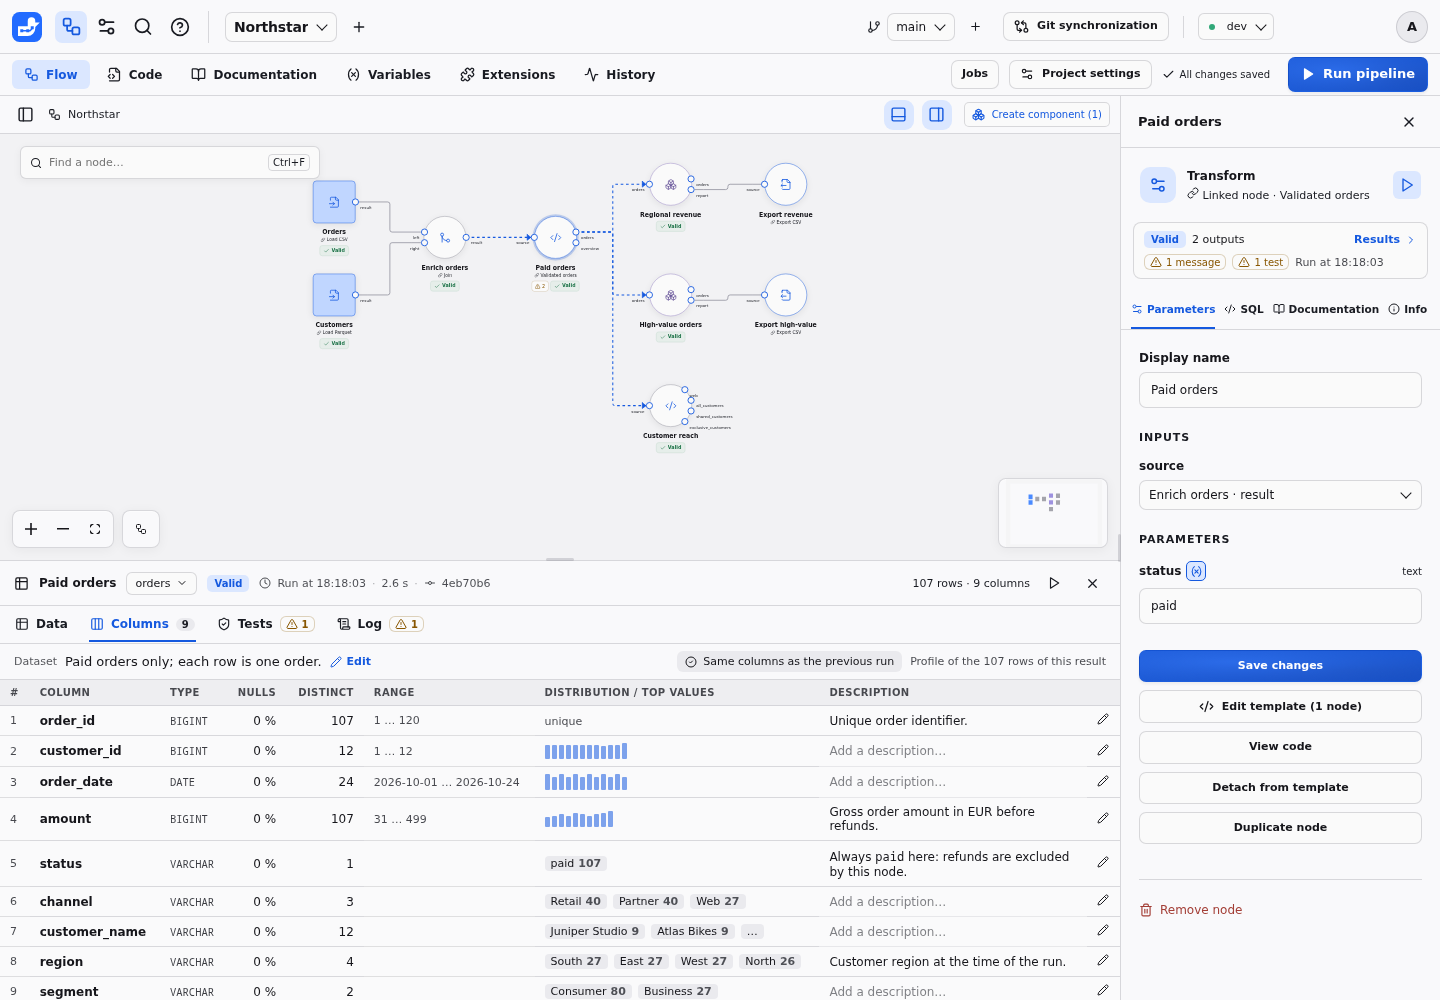
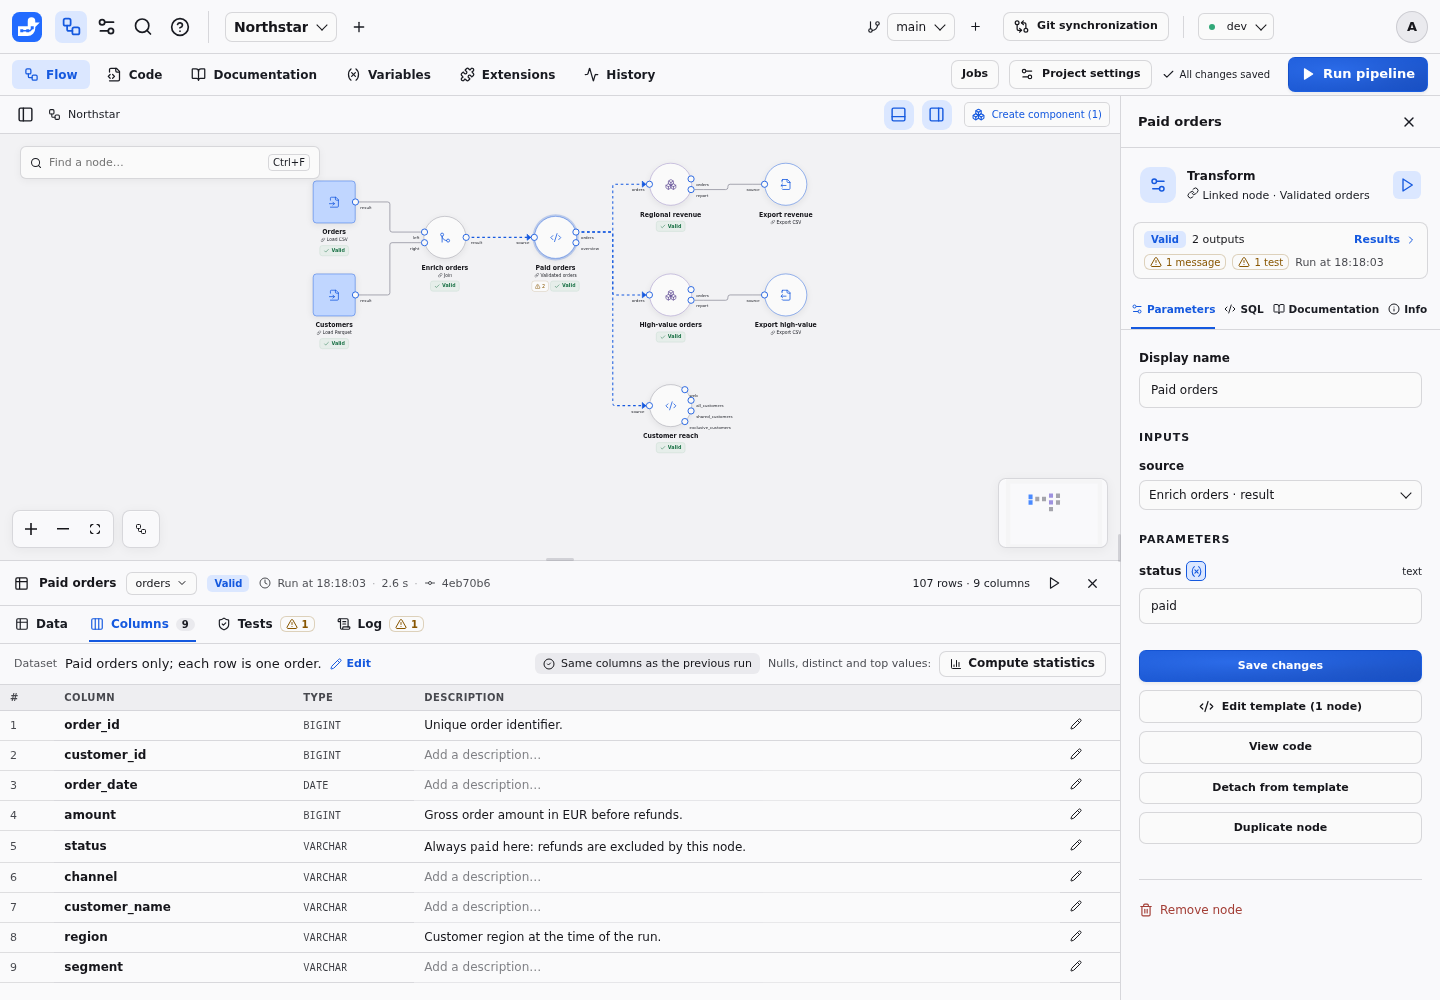
docs(design): record the results panel decisions
Samples act only on the display, views are shared in views.json, and
descriptions are edited from the Columns tab. Column names, types and
descriptions show at once; statistics are computed only with Compute
statistics, since their cost grows with the result and competes with
runs.

Changed region(s): [[0.0, 0.651, 0.7812, 1.0]]

diff --git a/docs/design/NODE_RESULTS.md b/docs/design/NODE_RESULTS.md
@@ -14,7 +14,7 @@ The rule fits in one sentence: *if it changes when you switch environment or run
 The results panel also adds what the current preview lacks:
 
 1. **Custom samples:** first or random rows, a SQL filter, a multi-column sort, and saved views shared with the project.
-2. **Column list:** each column's type, nulls, distinct values, range or top values, and its description.
+2. **Column list:** each column's name, type and description at once and, on request, its nulls, distinct values, range or top values.
 3. **Log:** the run that produced the result, the node's `-- @message` results and the SQL it executed.
 4. **Tests:** each `-- @test` with its recent history and, on demand, the failing rows.
 
@@ -35,11 +35,11 @@ The results panel also adds what the current preview lacks:
 | --- | --- | --- | --- | --- | --- |
 | Rows shown | Results window per tool output, capped in size | Explore tab on a configurable sample (first 10,000 rows by default) | Preview of the first rows | `dbt show` | Retained result of the last run, paged |
 | Choosing the sample | Browse tool, filters in the grid | Sampling settings saved with the dataset: first records, random, stratified… | Filters become applied steps | SQL | First or random rows, SQL filter, sort; personal or saved views |
-| Columns and types | Metadata view: name, type, size, source, description | Schema and column analysis | Column quality, distribution and profile, on the first 1,000 rows unless switched | YAML documentation | Columns tab: type, profile on the whole result, description |
+| Columns and types | Metadata view: name, type, size, source, description | Schema; column analysis on the sample, on the whole dataset on request | Column quality, distribution and profile, on the first 1,000 rows unless switched | YAML documentation | Columns tab: type and description at once, statistics of the whole result on request |
 | Messages | Messages view with information, warnings and errors per tool | Job log | Errors per step | Run log | Log tab: run summary, `-- @message` results, executed SQL |
 | Tests | Test tool, messages | Metrics and checks on the dataset | — | Tests are queries returning failing rows; `--store-failures` saves them | Tests tab with history; failing rows recomputed on demand, never stored |
 
-What we keep: a sample that users choose and can share (Dataiku), a column view with type and quality indicators next to the data (Alteryx, Power Query), and tests expressed as "rows that fail" (dbt). What we change: profiles cover the whole result rather than the first rows, because Duckpad results are already materialized in DuckDB, and failing rows are recomputed rather than stored.
+What we keep: a sample that users choose and can share (Dataiku), a column view with type and quality indicators next to the data (Alteryx, Power Query), and tests expressed as "rows that fail" (dbt). What we change: statistics cover the whole result rather than the first rows, because Duckpad results are already materialized in DuckDB, but only on request; failing rows are recomputed rather than stored.
 
 ## Principles
 
@@ -125,11 +125,15 @@ Views are stored in a new `views.json` file at the project root, keyed like data
 
 ### Columns tab
 
-![Columns tab: type, nulls, distinct values, range or top values, and descriptions](node-results/columns.png)
+![Columns tab: name, type and description at once, statistics on request](node-results/columns.png)
 
-One row per column of the selected dataset: position, name, type, null percentage, distinct values, range (numbers and dates) or top values (text), a small distribution, and the column description. The dataset description sits above the table.
+One row per column of the selected dataset: position, name, type and description, with the dataset description above the table. All of it shows at once: names and types come from the result's schema and descriptions from `documentation.json`, without reading any rows.
 
-- **Profile on the whole result.** Statistics come from DuckDB's `SUMMARIZE` and a top-values query on the retained dataset, computed when the tab first opens and cached for that result generation (results are immutable until replaced). Large results show a **Compute profile** button instead of starting automatically above a size threshold.
+- **Statistics on request.** **Compute statistics** adds each column's null percentage, distinct values, range (numbers and dates) or top values (text), and a small distribution. They come from DuckDB's `SUMMARIZE` and a top-values query on the whole retained dataset, not on the displayed sample. On an 8-core server under load, `SUMMARIZE` takes 2.5 s on 10 million rows and 9 columns, plus 0.5 s for the top values, and the cost grows with the number of columns. The tab never starts this on its own: opening it is often only about a type, and the computation shares the CPU with runs.
+- **Computed once per result.** Statistics are cached for that result generation (results are immutable until replaced): reopening the tab, coming back to the node or another user sees them at once, with the time they were computed. The run that replaces the result discards them. The computation can be cancelled and stops after the same timeout as samples.
+
+![Columns tab after Compute statistics](node-results/columns-statistics.png)
+
 - **Descriptions are edited inline** (pencil), saved in `documentation.json` as today. The inspector's Documentation tab keeps only the node documentation, without the node/dataset/column selector.
 - **Schema changes.** A chip compares the columns with the previous successful run of the node in the same environment, from run records: added, removed or retyped columns are listed; otherwise "Same columns as the previous run".
 - Selecting a column name scrolls the Data tab to it.
@@ -182,7 +186,7 @@ Four tabs need compact labels at the default inspector width (320 px at 1,440 px
 ## API and storage
 
 - `GET /api/worktrees/{id}/preview/{node}` accepts `search` (all columns), `filter` (SQL condition), `order` (list of column and direction), `method` (`first` or `random`) and `seed`. The current `filters` and `sort` parameters keep working.
-- `GET /api/worktrees/{id}/profile/{node}?environment&port` returns column statistics, cached per dataset generation.
+- `POST /api/worktrees/{id}/statistics/{node}?environment&port` computes column statistics on request; `GET` on the same path returns them when they were already computed for the current result generation.
 - `GET /api/worktrees/{id}/test-rows/{node}/{test}?environment&limit&offset` returns the failing rows of a test for a valid result, paged.
 - `views.json` joins the bundle, validation, merge, comparison and ZIP archives, like `variables.json`.
 - Run records add per-output durations.
@@ -192,13 +196,14 @@ Four tabs need compact labels at the default inspector width (320 px at 1,440 px
 - **Sample filters** are validated like Filter conditions: one SQL expression, no query, DDL, DML or command; column references must belong to the dataset; `{{ var.name }}` references are bound, never pasted. The query runs on a cursor of the execution context against the retained relation only, with the existing row cap, and is interrupted after a timeout.
 - **Random samples** use DuckDB's reservoir sampling with a seed on the filtered relation, so a seed always shows the same rows of the same result, and each row keeps its identity for lineage.
 - **Failing rows** use the definitions recorded with the run, not the current files, so they match the displayed result. They require the same permission as reading results and are never stored or logged.
-- **Profiles** read only the retained dataset and are released with it.
-- Readers, Operators and Job results (read-only worktrees) can use samples, profiles and failing rows; saving views, editing descriptions, adding a Filter node or creating a test require edit rights.
+- **Column statistics** are computed only on request, read only the retained dataset, can be cancelled, stop after the sample timeout, and are released with the result.
+- Readers, Operators and Job results (read-only worktrees) can use samples, column statistics and failing rows; saving views, editing descriptions, adding a Filter node or creating a test require edit rights.
 
 ## Alternatives considered
 
 - **Keep run outcomes in the inspector and add tabs there.** Rejected: the inspector is narrow (260 to 560 px), rows and logs need width, and it would keep mixing definition and outcome.
-- **Samples that also drive downstream computations** (in the reference mockup that prompted this proposal, sample settings also apply to downstream preview computations). Not proposed: results computed from a sample would not match the saved configuration, so under Duckpad's validity rules they would be stale at once and without lineage. Smaller data for development already comes from the `dev` connections. To revisit with a "sampled development run" design if large sources make full runs too slow (see the open question below).
+- **Samples that also drive downstream computations** (in the reference mockup that prompted this proposal, sample settings also apply to downstream preview computations). Rejected (decision 1): results computed from a sample would not match the saved configuration, so under Duckpad's validity rules they would be stale at once and without lineage. Smaller data for development already comes from the `dev` connections. To revisit with a separate "sampled development run" design if large sources make full runs too slow.
+- **Column statistics computed when the Columns tab opens**, or only below a size threshold. Rejected (decision 3): the cost grows with the result's size and width and competes with runs, while names, types and descriptions, the common need, cost nothing.
 - **Storing failing rows** (dbt `--store-failures`). Rejected: memory and privacy costs, and stored rows go out of date; retained results already allow an exact recomputation.
 - **A free SQL console in the panel.** Deferred: **Copy SQL**, **Add as a Filter node** and a SQL node on a branch cover the need with lineage and history.
 - **Views in `documentation.json`.** Rejected: views are not documentation; a dedicated file keeps diffs and merges readable.
@@ -210,18 +215,20 @@ Each step is a separate issue and pull request, with tests (API and Playwright),
 1. **Two roles.** Results panel with the Data, Columns (name, type, description), Tests and Log tabs; move messages, tests, errors, executed SQL, dataset and column documentation and export downloads out of the inspector; inspector result summary; results panel for export nodes. Frontend only. Lands after the inspector's Info tab to avoid conflicts in the same component.
 2. **Custom samples.** Search across columns, Sample popover (first or random rows, filter, multi-column sort), chips, inputs in the dataset selector, per-user persistence, **Add as a Filter node** and **Copy SQL**.
 3. **Shared views and test bridges.** `views.json`, views bar, **Create a test from this filter**, **Show the failing rows**.
-4. **Profile and timings.** Column statistics and top values, schema changes against the previous run, per-output durations in the Log.
+4. **Statistics and timings.** **Compute statistics** (column statistics and top values, cached per result), schema changes against the previous run, per-output durations in the Log.
 
-## Open questions
+## Decisions
 
-1. **Should a sample act only on the display** (proposed), **or also on downstream computations**, as in the reference mockup? The proposal keeps runs on full data and leaves sampled development runs for a separate design.
-2. **Shared views in the project** (`views.json`, versioned and shared on the branch, proposed in addition to personal samples), **or personal samples only**?
-3. **Dataset and column descriptions edited from the Columns tab** (proposed), the only versioned content edited outside the inspector?
+Decided on 31 October 2026:
+
+1. **A sample acts only on the display.** Runs always compute on full data; a sampled development run, if needed, gets its own design.
+2. **Shared views in the project** (`views.json`), in addition to personal samples remembered in the browser.
+3. **Dataset and column descriptions are edited from the Columns tab.** Names, types and descriptions show at once; column statistics are computed only with **Compute statistics**.
 
 ## Sources
 
 - Alteryx Designer: [Results window](https://help.alteryx.com/2021.3/Getting_Started/Output.htm), [interactive results grid](https://help.alteryx.com/aac/en/designer-experience/workflows/interactive-results-grid.html)
-- Dataiku DSS: [sampling in Explore](https://doc.dataiku.com/dss/13/explore/sampling.html)
+- Dataiku DSS: [sampling in Explore](https://doc.dataiku.com/dss/13/explore/sampling.html), [column analysis](https://knowledge.dataiku.com/9.0/courses/basics/explore-data/concept-analyze.html)
 - Power Query: [data profiling tools](https://learn.microsoft.com/en-us/power-query/data-profiling-tools)
 - dbt: [data tests](https://docs.getdbt.com/docs/build/data-tests), [`store_failures`](https://docs.getdbt.com/reference/resource-configs/store_failures)
 - Duckpad: [execution messages and data tests](../AUTHORING.md#execution-messages), [specification](../SPEC.md)
